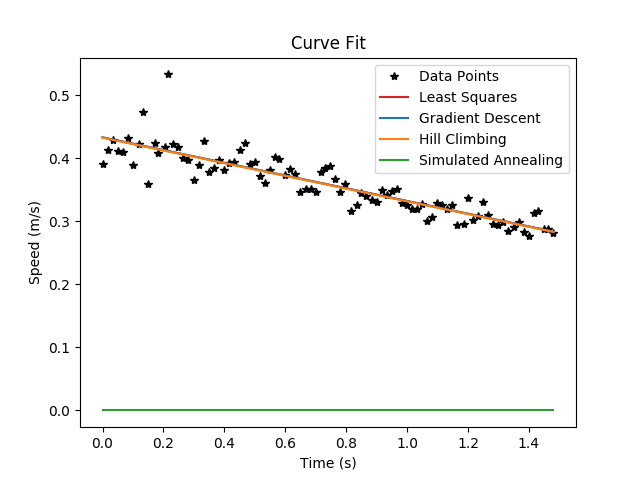
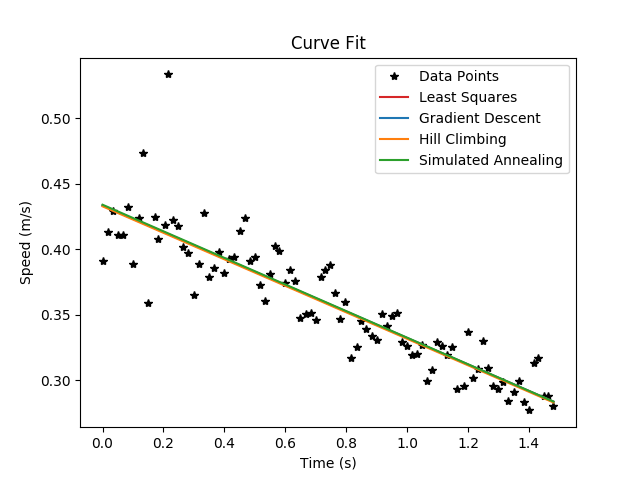
finishing simulated annealing

diff --git a/lab3/lab3_ct213/simulated_annealing.py b/lab3/lab3_ct213/simulated_annealing.py
@@ -25,5 +25,31 @@ def simulated_annealing(cost_function, random_neighbor, schedule, theta0, epsilo
     """
     theta = theta0
     history = [theta0]
-    # Todo: Implement Simulated Annealing
+    # Todo: Implement Simulated
+    iteration = 0
+    while not check_stopping_condition(cost_function(theta), epsilon, iteration, max_iterations):
+        temperature = schedule(iteration)
+        if temperature < 0.0:
+            break
+        neighbor = random_neighbor(theta)
+        delta_e = cost_function(neighbor) - cost_function(theta)
+
+        if delta_e < 0:
+            theta = neighbor
+        else:
+            r = random.uniform(0.0, 1.0)  # Draws random number w/ uniform dist.
+            if r <= exp(- delta_e / temperature):
+                theta = neighbor
+
+        history.append(theta)
+        iteration = iteration + 1
+
     return theta, history
+
+
+def check_stopping_condition(cost_function_theta, epsilon, iteration, max_iterations):
+    if iteration > max_iterations:
+        return True
+    if cost_function_theta < epsilon:
+        return True
+    return False

diff --git a/lab3/lab3_ct213/ball_fit.py b/lab3/lab3_ct213/ball_fit.py
@@ -122,7 +122,10 @@ def fit_simulated_annealing():
         :rtype: numpy.array.
         """
         # Todo: Implement
-        pass  # Remove pass after implementing
+        random_angle = random.uniform(-np.pi, np.pi)
+        neighbor = np.array([theta[0] + delta * np.cos(random_angle), theta[1] + delta * np.sin(random_angle)])
+        return neighbor
+        # pass  # Remove pass after implementing
 
     def schedule(i):
         """
@@ -134,7 +137,9 @@ def fit_simulated_annealing():
         :rtype: float.
         """
         # Todo: Implement
-        pass  # Remove pass after implementing
+        temperature = temperature0/(1 + beta * (i ** 2))
+        return temperature
+        # pass  # Remove pass after implementing
 
     theta, history = simulated_annealing(cost_function, random_neighbor, schedule, np.array([0.0, 0.0]), 1.0e-10, 5000)
     return theta, history
